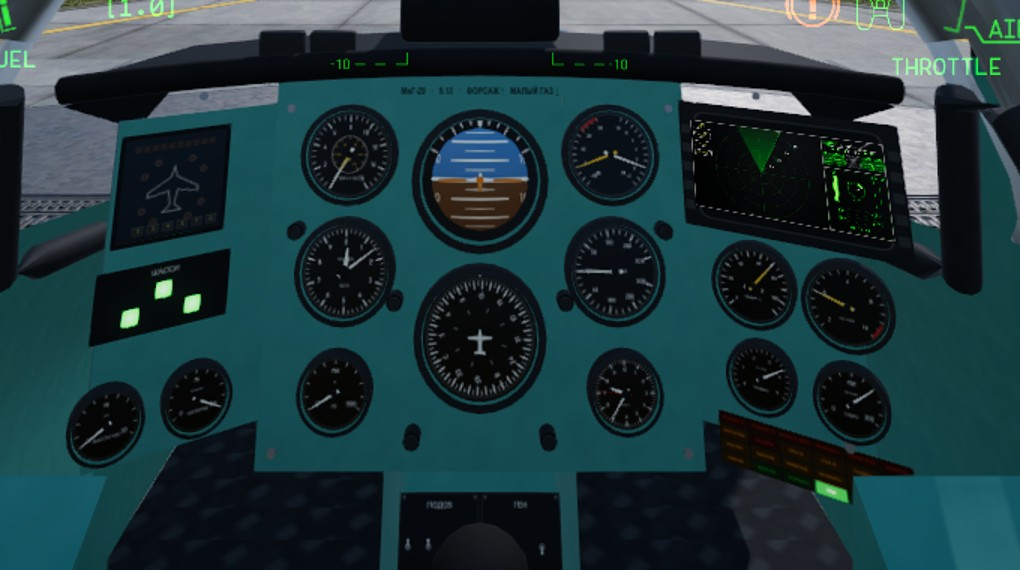
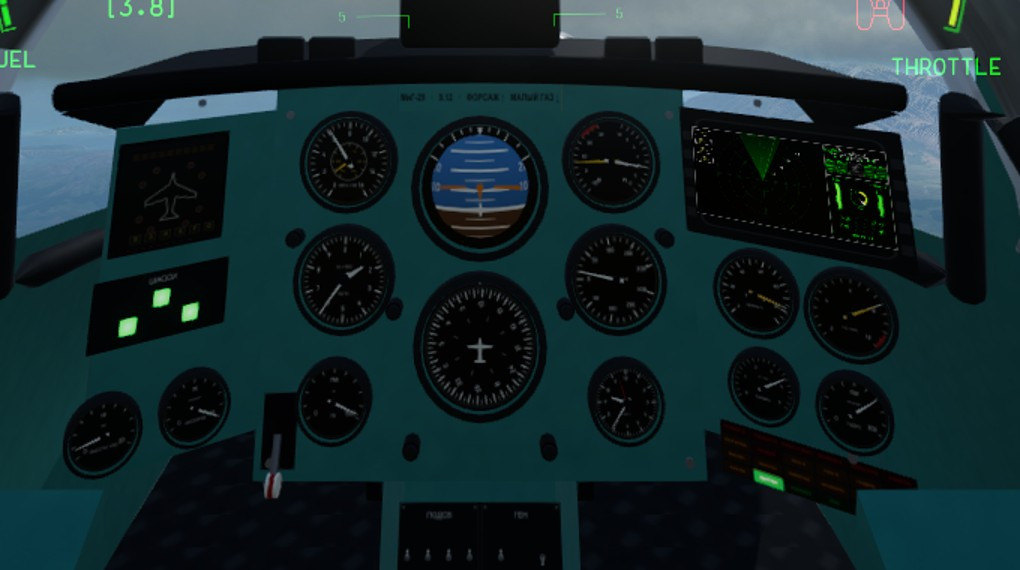
Instruments verified in flight; dev teleport (F9) for testing; G clamped against spikes

diff --git a/docs/index.html b/docs/index.html
@@ -188,7 +188,7 @@ footer p { margin: 6px 0; }
           <li><b>Four loading screens</b> rendered from the model.</li>
         </ul>
       </div>
-      <div class="media"><img src="img/cockpit_ingame.jpg" alt="In game: the MiG-29 cockpit with working instruments, gear lights and the radar screen" loading="lazy"><img src="img/damage_display.jpg" alt="Cockpit damage display outline and per-part damage map" loading="lazy" style="margin-top:14px"></div>
+      <div class="media"><img src="img/cockpit_ingame.jpg" alt="In game: the MiG-29 cockpit with working instruments, gear lights and the radar screen" loading="lazy"><img src="img/instruments_ingame.jpg" alt="In flight: attitude ball, airspeed, AoA and g needles reading a pull-up" loading="lazy" style="margin-top:14px"><img src="img/damage_display.jpg" alt="Cockpit damage display outline and per-part damage map" loading="lazy" style="margin-top:14px"></div>
     </div>
   </div>
 </section>

diff --git a/unity/MiG29Instruments/Plugin.cs b/unity/MiG29Instruments/Plugin.cs
@@ -48,6 +48,29 @@ namespace MiG29Instruments
                 var cams = SceneSingleton<CameraStateManager>.i;
                 if (cams != null && Input.GetKeyDown(KeyCode.F10)) cams.SwitchState(cams.orbitState);
                 if (cams != null && Input.GetKeyDown(KeyCode.F11)) cams.SwitchState(cams.cockpitState);
+                if (Input.GetKeyDown(KeyCode.F9))   // teleport the player's aircraft 1,500 m up at 220 m/s to test the instruments in flight
+                {
+                    var hud = SceneSingleton<CombatHUD>.i;
+                    if (hud != null && hud.aircraft != null)
+                    {
+                        var ac = hud.aircraft; var fwd = ((Component)ac.cockpit).transform.forward;
+                        fwd.y = 0f; fwd.Normalize();
+                        // every rigidbody of the aircraft (parts, wheels, pilot...), moved together so no joint stretches
+                        foreach (var rb in UnityEngine.Object.FindObjectsOfType<Rigidbody>())
+                        {
+                            var up = rb.GetComponentInParent<UnitPart>();
+                            var unit = up != null ? up.parentUnit : rb.GetComponentInParent<Unit>();
+                            if (unit != ac) continue;
+                            rb.transform.position += Vector3.up * 1500f; rb.position = rb.transform.position;
+                            rb.velocity = fwd * 220f; rb.angularVelocity = Vector3.zero;
+                        }
+                        // the pilot and aircraft compute g from the velocity change: tell them we were already flying, or the jump kills the pilot
+                        var vp = typeof(Pilot).GetField("velocityPrev", BindingFlags.Instance | BindingFlags.NonPublic | BindingFlags.Public);
+                        foreach (var pl in ac.pilots) if (pl != null) vp?.SetValue(pl, fwd * 220f);
+                        typeof(Aircraft).GetField("velocityPrev", BindingFlags.Instance | BindingFlags.NonPublic | BindingFlags.Public)?.SetValue(ac, fwd * 220f);
+                        MiG29InstrumentsPlugin.Log.LogInfo("dev: teleported 1500 m up at 220 m/s");
+                    }
+                }
             }
             if (Time.unscaledTime < nextScan) return;
             nextScan = Time.unscaledTime + 0.5f;
@@ -239,7 +262,7 @@ namespace MiG29Instruments
             st.aoaDeg = speed > 15f ? Mathf.Atan2(-vl.y, vl.z) * Mathf.Rad2Deg : 0f;
             // accelerometer load factor: the pilot's acceleration along his up axis (the game leaves gravity out) plus 1 g of gravity
             var pilot = ac.pilots != null && ac.pilots.Length > 0 ? ac.pilots[0] : null;
-            st.g = pilot != null ? pilot.gForce + Vector3.Dot(Vector3.up, ((Component)pilot).transform.up) : 1f;
+            st.g = pilot != null ? Mathf.Clamp(pilot.gForce + Vector3.Dot(Vector3.up, ((Component)pilot).transform.up), -6f, 14f) : 1f;
             var e = cock.eulerAngles;
             st.pitchDeg = -Wrap(e.x); st.rollDeg = -Wrap(e.z); st.headingDeg = e.y;
             st.radAltM = ac.radarAlt;

diff --git a/DEVLOG.md b/DEVLOG.md
@@ -237,5 +237,8 @@ Blueprinter bundles can only use components that already exist in the game, and 
   - The engine spool ratio idles at 0.33; the plugin maps it to 70 % idle and 100 % military.
   - `IsLanded()` means stopped on the ground; on-ground uses radar altitude instead.
 - **Testing in game.** `BepInEx/mig29_dump.flag` turns on developer mode: a hierarchy and camera dump (`BepInEx/mig29_dump.txt`),
-  telemetry in the log every 2 s, and F10 / F11 for orbit and cockpit camera.
+  telemetry in the log every 2 s, F10 / F11 for orbit and cockpit camera, and F9 to lift the jet 1,500 m at 220 m/s. F9 moves
+  every rigidbody of the aircraft (the part list misses some, and a stretched joint wrecks the jet). It also resets
+  `Pilot.velocityPrev` and `Aircraft.velocityPrev`, or the pilot sees a ~1,000 g jump and dies. First in-flight check: IAS
+  655 km/h at M0.59 and 1,600 m, AoA 9 deg, 3.3 g in a pull-up, then climbing at 21 m/s.
 
